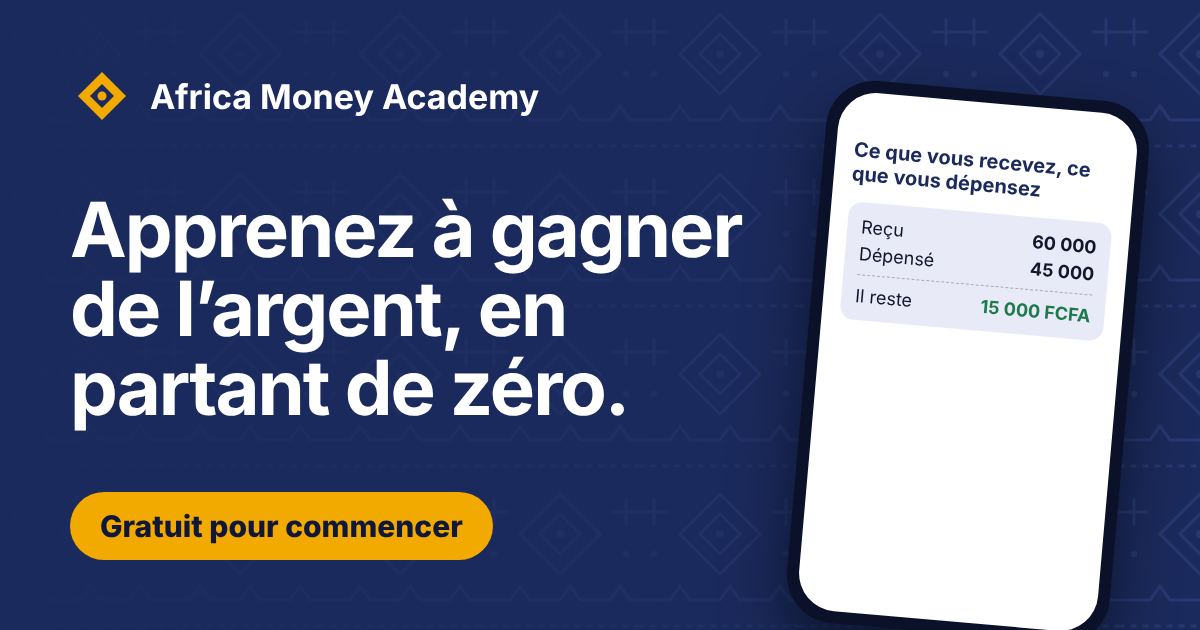
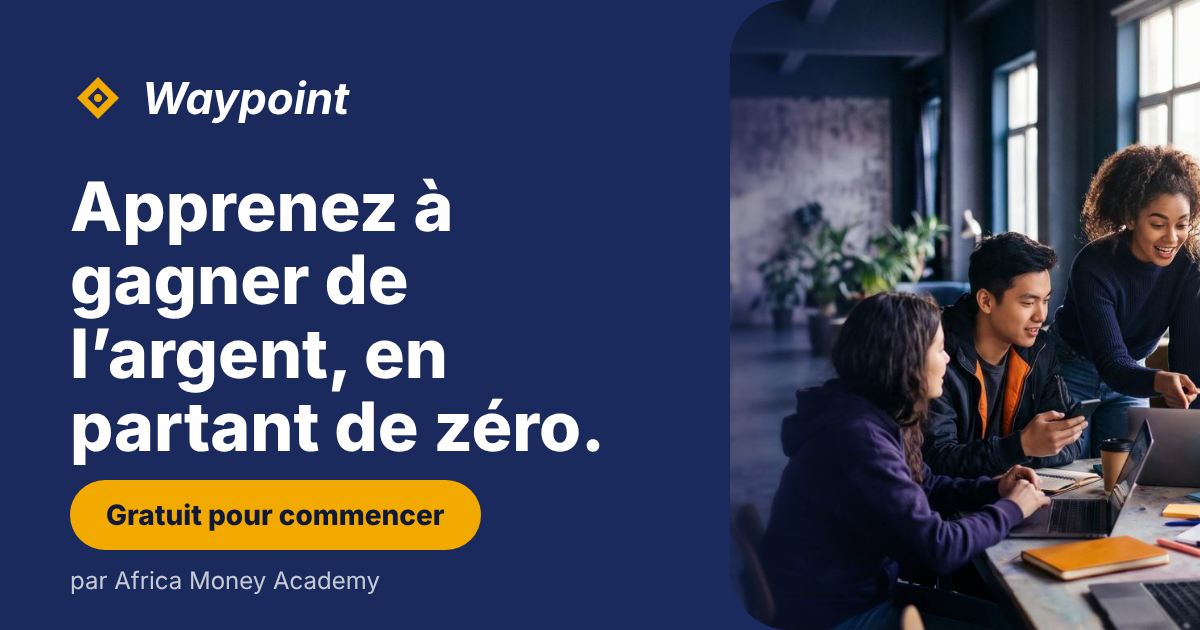
Le nom de l'application devient Waypoint (Africa Money Academy reste l'éditeur, le domaine et l'e-mail)
Claude-Session: https://claude.ai/code/session_01WPjGZNsRT7rxbQhjKRo7P9

diff --git a/src/app/espace/formation/[slug]/lecon/[lessonId]/page.jsx b/src/app/espace/formation/[slug]/lecon/[lessonId]/page.jsx
@@ -38,7 +38,7 @@ export default async function LessonPage({ params, searchParams }) {
   const prev = idx > 0 && flat[idx - 1].unlocked ? flat[idx - 1] : null;
   const next = idx < flat.length - 1 && flat[idx + 1].unlocked ? flat[idx + 1] : null;
   const base = `/espace/formation/${slug}`;
-  const mark = `${user.email} · Africa Money Academy`;
+  const mark = `${user.email} · Waypoint`;
 
   const answer = lesson.exercise?.trim() ? await store.getExerciseAnswer(db, user.id, lessonId) : null;
   const words = String(lesson.content || '').replace(/!\[[^\]]*\]\([^)]*\)/g, '').split(/\s+/).filter(Boolean).length;
@@ -61,7 +61,7 @@ export default async function LessonPage({ params, searchParams }) {
           <header className="paper-head">
             <div className="paper-brand">
               <img src="/logo-mark.svg" alt="" width="26" height="26" />
-              <span>Africa Money Academy</span>
+              <span>Waypoint</span>
             </div>
             <p className="paper-kicker">
               Leçon {lessonNumber} sur {flat.length} · {moduleLabel}
@@ -119,7 +119,7 @@ export default async function LessonPage({ params, searchParams }) {
             <p className="licence">
               <img src="/logo-mark.svg" alt="" width="22" height="22" />
               <span>
-                © Africa Money Academy. Leçon réservée à {user.email}. Toute copie, diffusion ou revente est interdite et peut
+                © Waypoint · Africa Money Academy. Leçon réservée à {user.email}. Toute copie, diffusion ou revente est interdite et peut
                 donner lieu à des poursuites.
               </span>
             </p>

diff --git a/src/app/layout.jsx b/src/app/layout.jsx
@@ -14,7 +14,7 @@ const body = Nunito_Sans({ subsets: ['latin'], variable: '--font-body', display:
 export const dynamic = 'force-dynamic';
 
 export async function generateMetadata() {
-  let name = 'Africa Money Academy';
+  let name = 'Waypoint';
   try {
     name = await getSiteName(getDb());
   } catch {
@@ -32,8 +32,8 @@ export async function generateMetadata() {
       images: [{ url: '/og.png', width: 1200, height: 630, alt: name }],
     },
     twitter: { card: 'summary_large_image', images: ['/og.png'] },
-    applicationName: 'Africa Money Academy',
-    appleWebApp: { capable: true, title: 'Money Academy', statusBarStyle: 'black-translucent' },
+    applicationName: 'Waypoint',
+    appleWebApp: { capable: true, title: 'Waypoint', statusBarStyle: 'black-translucent' },
     icons: { icon: [{ url: '/icons/icon-192.png', sizes: '192x192', type: 'image/png' }, { url: '/icon.svg', type: 'image/svg+xml' }], apple: '/icons/apple-touch-icon.png' },
     description: 'Apprenez pas à pas à gagner de l’argent sur Internet, en partant de zéro. Formations écrites en français, pensées pour le téléphone.',
   };

diff --git a/src/components/Footer.jsx b/src/components/Footer.jsx
@@ -3,7 +3,7 @@ import { getDb } from '@/lib/db.js';
 import { getSiteName } from '@/lib/context.js';
 
 export default async function Footer() {
-  let siteName = 'Africa Money Academy';
+  let siteName = 'Waypoint';
   try {
     siteName = await getSiteName(getDb());
   } catch {
@@ -14,9 +14,9 @@ export default async function Footer() {
       <div className="pattern" aria-hidden="true" />
       <div className="wrap footer-grid">
         <div className="footer-brand">
-          {/* eslint-disable-next-line @next/next/no-img-element */}
-          <img src="/logo-clair.svg" alt={siteName} width="200" height="40" />
+          <span className="footer-name">{siteName}</span>
           <p>Apprendre à gagner de l’argent, pas à pas, en français et depuis votre téléphone.</p>
+          <p className="footer-by">Une application d’Africa Money Academy.</p>
         </div>
         <nav aria-label="Formations">
           <strong>Apprendre</strong>

diff --git a/src/components/Header.jsx b/src/components/Header.jsx
@@ -6,19 +6,18 @@ import { logout } from '@/app/actions/auth.js';
 
 export default async function Header() {
   let user = null;
-  let siteName = 'Africa Money Academy';
+  let siteName = 'Waypoint';
   try {
     user = await getCurrentUser();
     siteName = await getSiteName(getDb());
   } catch {
     // Base indisponible : le site affiche quand même l'en-tête.
   }
-  const [first, ...rest] = siteName.split(' ');
   return (
     <header className="site-header">
       <div className="wrap">
         <Link href="/" className="brand">
-          <b>{first}</b>&nbsp;{rest.join(' ')}
+          <b>{siteName}</b>
         </Link>
         {user && (
           <Link href="/espace/profil" className="avatar" aria-label="Mon profil">

diff --git a/src/lib/context.js b/src/lib/context.js
@@ -16,7 +16,7 @@ export function getSiteUrl(env = process.env) {
 }
 
 // Mis en cache le temps d'une requête : l'en-tête, le pied de page et le titre le demandent chacun.
-export const getSiteName = cache(async (db) => (await getSetting(db, 'site_name')) || 'Africa Money Academy');
+export const getSiteName = cache(async (db) => (await getSetting(db, 'site_name')) || 'Waypoint');
 
 const MAIL_FAILURES = {
   not_configured: "Aucun service d'e-mails n'est configuré : un e-mail n'a pas pu partir. Renseignez la clé Resend et l'adresse d'expéditeur dans Réglages > Connexions.",

diff --git a/src/app/parrainage/page.jsx b/src/app/parrainage/page.jsx
@@ -32,7 +32,7 @@ export default async function Parrainage() {
   }
   const buyers = filleuls.filter((f) => f.achats.length > 0).length;
   const shareText = refLink
-    ? `Je te recommande Africa Money Academy : des formations simples, en français, pour gagner de l’argent à partir de ton téléphone. Inscris-toi avec mon lien : ${refLink}`
+    ? `Je te recommande Waypoint : des formations simples, en français, pour gagner de l’argent à partir de ton téléphone. Inscris-toi avec mon lien : ${refLink}`
     : '';
 
   return (

diff --git a/src/app/globals.css b/src/app/globals.css
@@ -1070,3 +1070,5 @@ input:not([type]), input[type=search] { border-radius: 16px; border: 1.5px solid
 .excerpt-fade { height: 120px; margin-top: -120px; position: relative; background: linear-gradient(180deg, rgba(255, 255, 255, 0), #fff); pointer-events: none; }
 .excerpt-cta { margin-top: 18px; text-align: center; }
 .excerpt-cta .btn { width: 100%; max-width: 420px; }
+.footer-name { display: block; font: 700 1.9rem/1.1 var(--font-title, system-ui); font-style: italic; color: #fff; }
+.footer-by { font-size: .85rem; opacity: .75; }

diff --git a/src/app/manifest.js b/src/app/manifest.js
@@ -1,8 +1,8 @@
 // Fichier qui permet d'installer le site comme une application sur le téléphone.
 export default function manifest() {
   return {
-    name: 'Africa Money Academy',
-    short_name: 'Money Academy',
+    name: 'Waypoint',
+    short_name: 'Waypoint',
     description: 'Formations en français pour apprendre à gagner de l’argent, pas à pas, depuis votre téléphone.',
     lang: 'fr',
     start_url: '/?source=app',

diff --git a/src/app/formations/page.jsx b/src/app/formations/page.jsx
@@ -3,7 +3,7 @@ import CourseCard from '@/components/CourseCard.jsx';
 import { getDb } from '@/lib/db.js';
 import * as store from '@/lib/store.js';
 
-export const metadata = { title: 'Formations', description: 'Toutes les formations Africa Money Academy.' };
+export const metadata = { title: 'Formations', description: 'Toutes les formations Waypoint.' };
 
 export default async function Catalogue() {
   const db = getDb();

diff --git a/src/app/installer/page.jsx b/src/app/installer/page.jsx
@@ -4,7 +4,7 @@ import Icon from '@/components/Icon.jsx';
 
 export const metadata = {
   title: 'Installer l’application',
-  description: 'Ajoutez Africa Money Academy sur l’écran d’accueil de votre téléphone, en 3 gestes.',
+  description: 'Ajoutez Waypoint sur l’écran d’accueil de votre téléphone, en 3 gestes.',
 };
 
 export default function Installer() {
